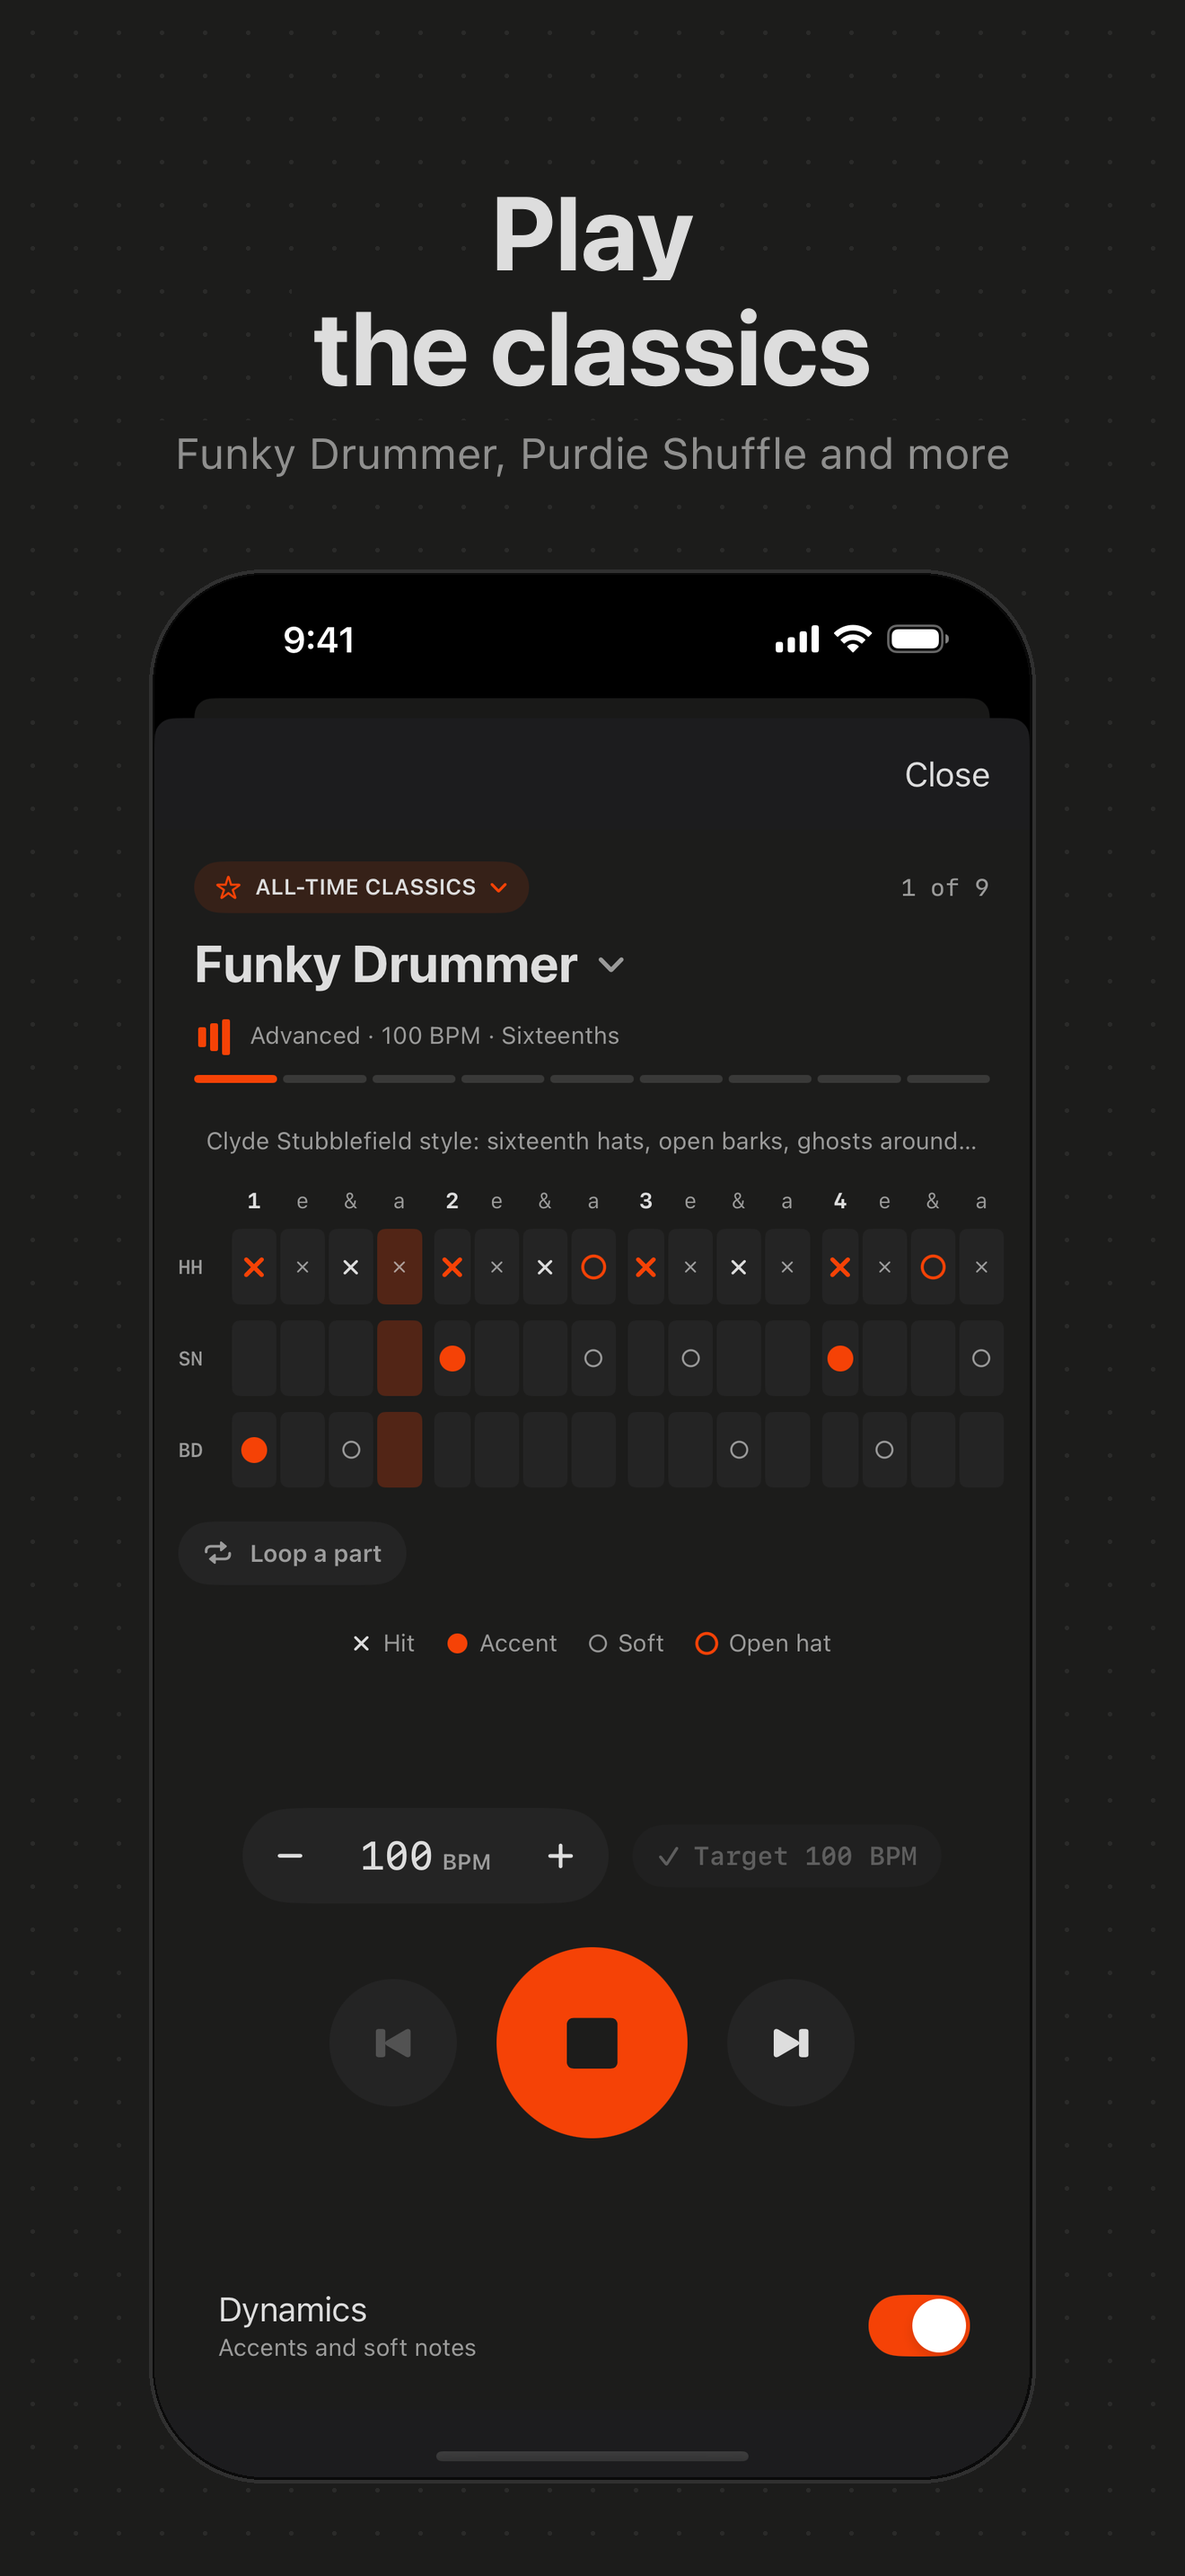
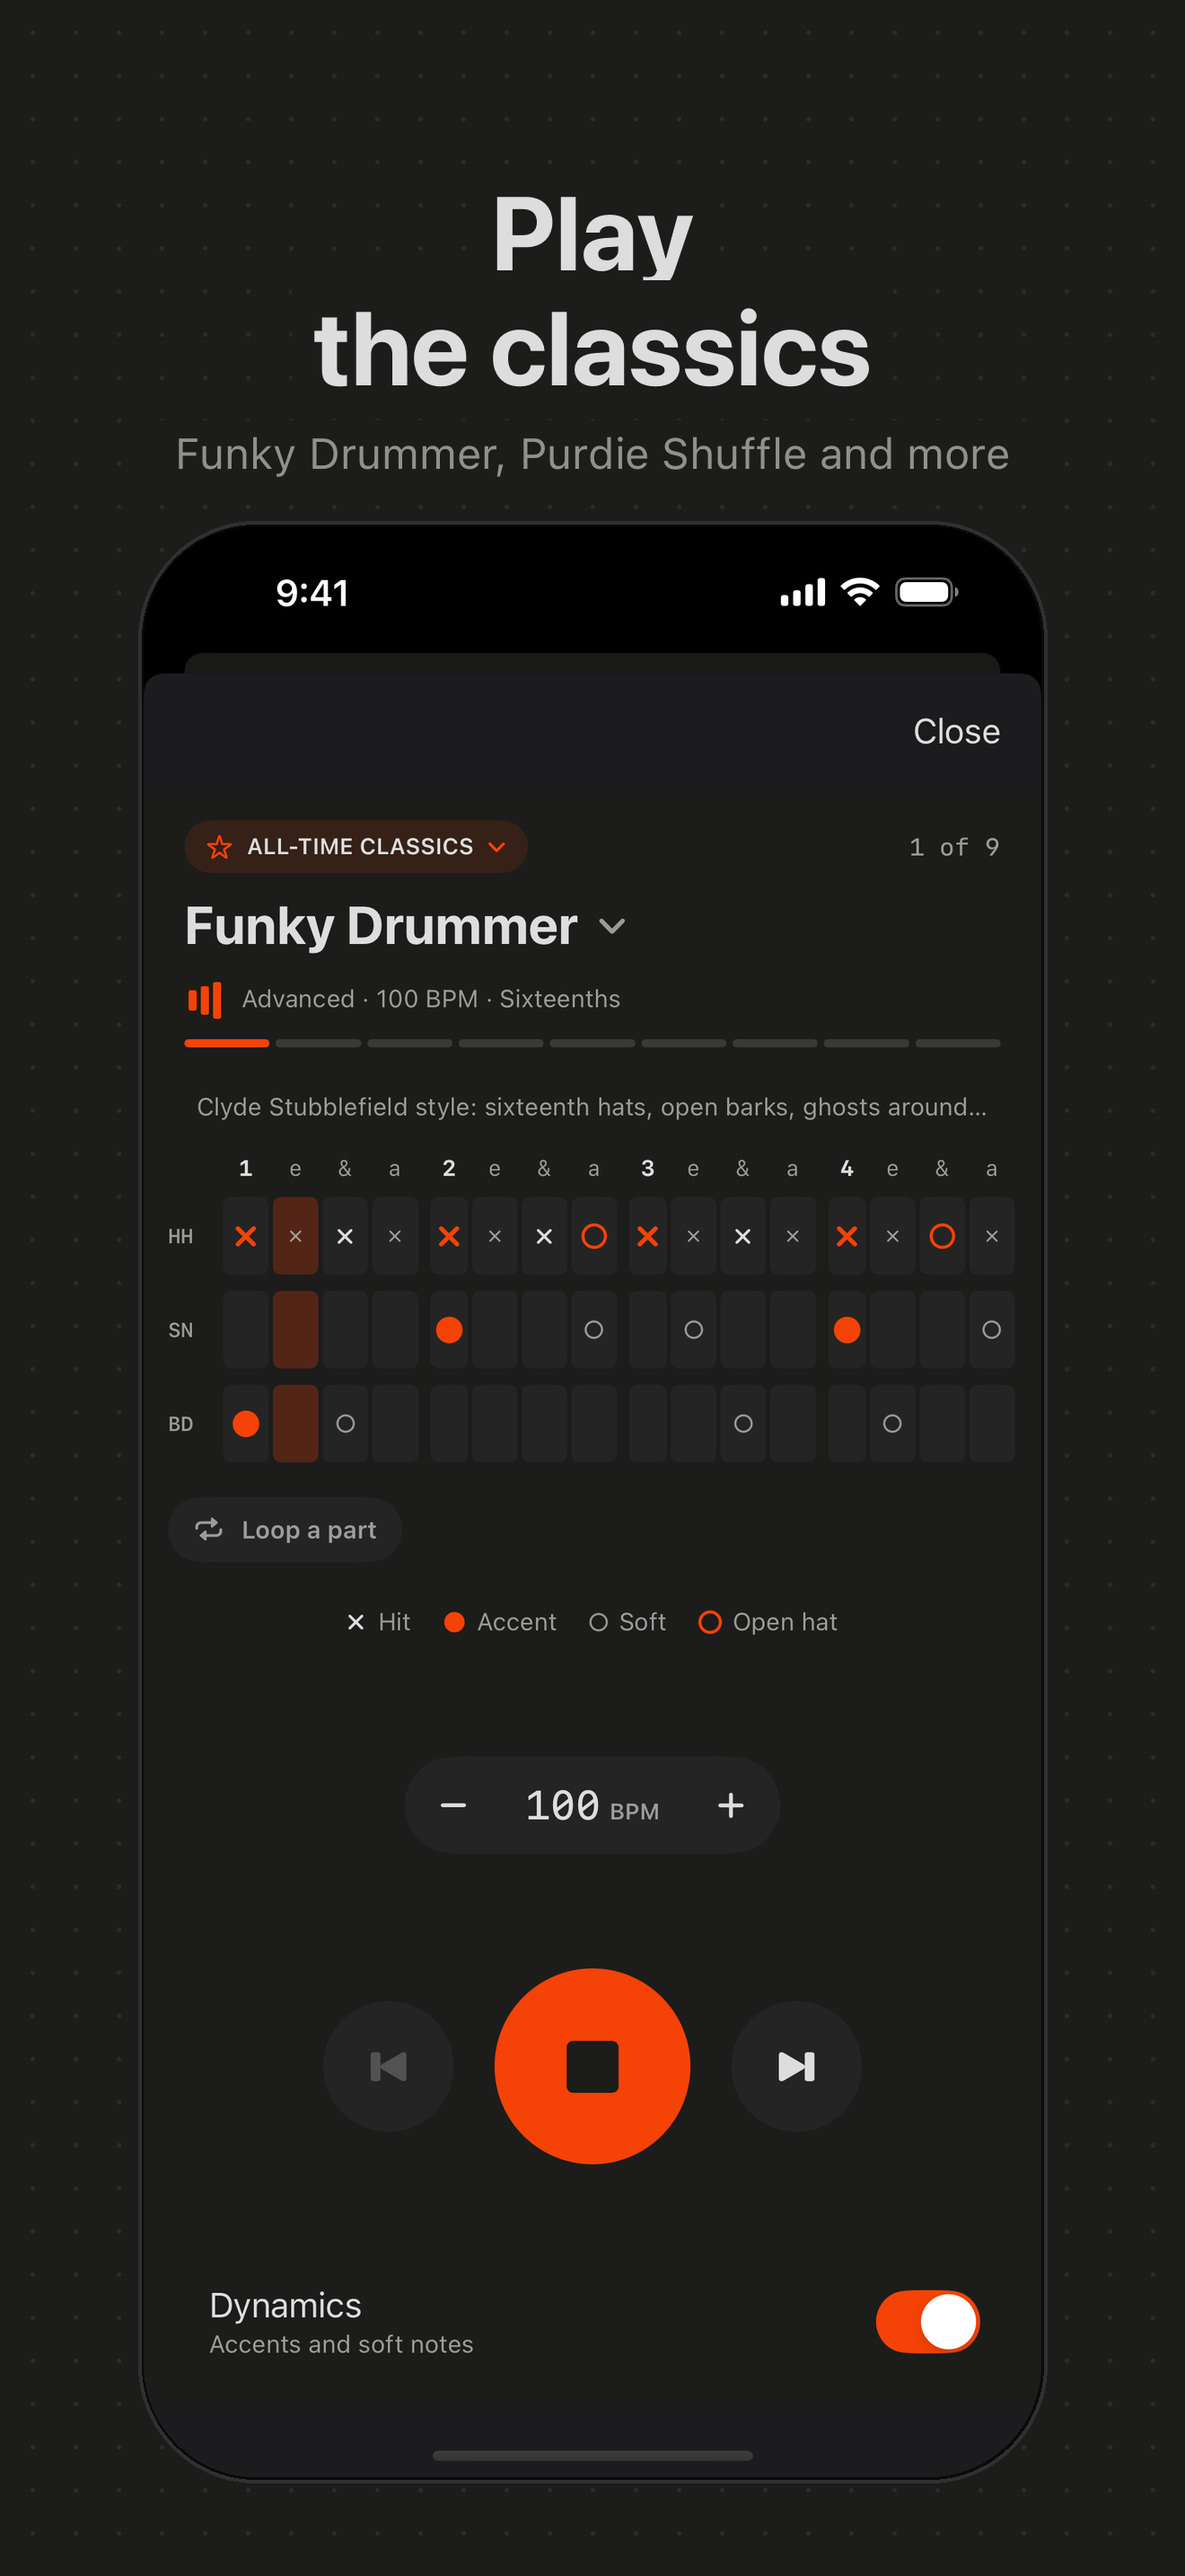
iPad: sheets open as full pages, build 8; new store images (EN, DE, iPad), German listing, cowbell default in brand handbook

diff --git a/Metronome/ContentView.swift b/Metronome/ContentView.swift
@@ -37,15 +37,19 @@ struct ContentView: View {
         }
         .sheet(isPresented: $showHistory) {
             HistoryView()
+                .pageSheet()
         }
         .sheet(isPresented: $showLearn) {
             LearnView()
+                .pageSheet()
         }
         .sheet(isPresented: $showSettings) {
             SettingsView(metronome: metronome)
+                .pageSheet()
         }
         .sheet(isPresented: $showBeatPresets) {
             BeatPresetsView(metronome: metronome)
+                .pageSheet()
         }
         .sheet(isPresented: $showQuickNoteValuePicker) {
             NoteValuePicker(metronome: metronome, isPresented: $showQuickNoteValuePicker)
@@ -901,5 +905,17 @@ struct SoundRow: View {
             }
         }
         .contentShape(Rectangle())
+    }
+}
+
+extension View {
+    // On iPad a sheet would open as a small card that cuts off the player, show it as a full page instead
+    @ViewBuilder
+    func pageSheet() -> some View {
+        if #available(iOS 18.0, *) {
+            presentationSizing(.page)
+        } else {
+            self
+        }
     }
 }

diff --git a/docs/store/listing-de.md b/docs/store/listing-de.md
@@ -1,0 +1,71 @@
+# Metro Mate 2.1.0 · App-Store-Eintrag (Deutsch)
+
+## Untertitel (max 30)
+
+Metronom und Drum-Grooves
+
+## Werbetext (max 170)
+
+Ein Klick, den du siehst: Die Welle fließt im Tempo und springt auf jedem Schlag. 70 Grooves und Übungen auf echtem Kit, schwere Stellen loopen. Gratis, ohne Werbung.
+
+## Beschreibung
+
+Metro Mate ist ein Metronom für Drummer. Ruhig zwischen den Schlägen, deutlich auf dem Schlag. Gratis, Open Source, ohne Werbung, ohne Abo, ohne Konto.
+
+DER KLICK
+- Eine Wellenfläche aus verbundenen Punkten fließt im Tempo und springt auf jedem Schlag, Akzente schlagen stärker aus
+- Tempo-Rad von 1 bis 300 BPM mit spürbarem Rasttick pro BPM und einem kräftigeren alle 10
+- Taktraster mit Akzenten und Notenwerten von Vierteln bis Sechzehntel-Triolen
+- Tap Tempo, Muster mischen, eigene Presets speichern
+- 7 Klicks: Classic (Woodblock), Clean, Claves, Pocket, Cowbell, Punch, Deep
+- Spielt weiter im Lautlos-Modus und im Hintergrund
+
+DEIN SOUND
+- Stell dir dein eigenes Drum-Kit zum Lernen zusammen: 8 Snares, 6 Kicks, 5 Hi-Hats, 4 offene Hi-Hats und 3 Übungspad-Sounds, jeder mit Vorhören
+- Importiere eigene One-Shots aus der Dateien-App, zum Beispiel einen Export aus deiner DAW. Sie bleiben auf deinem Gerät
+
+LERNEN
+- 70 Grooves und Übungen in 9 Kategorien, von Einsteiger bis Fortgeschritten
+- All-Time Classics im Stil von Funky Drummer, Purdie Shuffle, Amen Break und mehr
+- Funk und Ghost Notes, lineare Grooves, Hi-Hat-Technik, Kick-Unabhängigkeit, Shuffles und Triolen, Akzentstudien, Chops mit R- und L-Sticking
+- Jeder Groove als Raster, das du hörst, gespielt auf einem aufgenommenen Funk-Kit
+- Dynamik an oder aus: Akzente und Ghost Notes oder jeder Schlag gleich laut
+- Tipp ins Raster und hör Spalte für Spalte, loop genau die Stelle, an der du arbeitest
+- Merkt sich dein Tempo für jeden Groove, ein Tipp zurück zum Zieltempo
+
+VERLAUF
+- Wochenansicht mit Übungszeit pro Tag
+- Monatsansicht mit Kalender, längster Serie und Tempo-Fortschritt pro Groove
+- Nur auf deinem Gerät gespeichert
+
+Die ganze App gibt es jetzt auch auf Deutsch.
+
+Siri: "Starte Metro Mate mit 90 BPM".
+
+Die Drum- und Klick-Samples sind aufgenommene Instrumente unter CC0, der Clean-Ton entsteht in der App. Der Code liegt auf GitHub, das Versprechen ohne Tracking kannst du also selbst prüfen.
+
+## Neu in 2.1.0
+
+- Neuer Look: eine Welle, die im Tempo fließt und auf dem Schlag springt
+- Lernen: 70 Grooves und Übungen auf echtem Funk-Kit, mit Loops und Dynamik
+- Wähl dein eigenes Drum-Kit zum Lernen, 26 aufgenommene Sounds mit Vorhören
+- Eigene Sounds aus der Dateien-App importieren, sie bleiben auf deinem Gerät
+- Übungsverlauf nach Woche und Monat
+- Aufgenommene Klicks, Tempo von 1 bis 300 BPM mit Haptik
+- App komplett auf Deutsch
+- Neues App-Icon
+
+## Keywords (max 100)
+
+schlagzeug,metronom,drummer,groove,click,takt,tempo,bpm,üben,rudiments,funk,ghost notes,paradiddle
+
+## Screenshots (6.9", 1320 x 2868)
+
+1. `screenshots-de/01-feel-every-beat.png` · Spür jeden Schlag · Hauptscreen spielend, Schlag 1 auf der Welle
+2. `screenshots-de/02-play-the-classics.png` · Spiel die Klassiker · Funky Drummer spielt
+3. `screenshots-de/03-grooves-and-exercises.png` · 70 Grooves und Übungen · Kategorien über Funk & Ghost Notes
+4. `screenshots-de/04-loop-the-hard-part.png` · Loop die schwere Stelle · Paradiddle mit Loop und Spaltencursor
+5. `screenshots-de/05-watch-it-add-up.png` · Sieh, wie dein Üben wächst · Verlauf, Monatsansicht (fiktive Übungsdaten)
+6. `screenshots-de/06-pick-your-sound.png` · Wähl deinen Sound · Snare-Liste des Lern-Kits mit Deine Sounds und Import
+
+iPad: die englischen Bilder aus `screenshots-ipad/` verwenden.

diff --git a/docs/store/listing.md b/docs/store/listing.md
@@ -20,6 +20,10 @@ THE CLICK
 - 7 click sounds: Classic woodblock, Clean, Claves, Pocket, Cowbell, Punch, Deep
 - Keeps playing with the ringer on silent and in the background
 
+YOUR SOUND
+- Build your own drum kit for Learn: 8 snares, 6 kicks, 5 hi-hats, 4 open hi-hats and 3 practice pad sounds, each with a preview
+- Import your own one-shots from the Files app, for example an export from your DAW. They stay on your device
+
 LEARN
 - 70 grooves and exercises in 9 categories, Beginner to Advanced
 - All-Time Classics in the style of Funky Drummer, Purdie Shuffle, Amen Break and more
@@ -44,17 +48,27 @@ The drum and click samples are recorded instruments released under CC0, the Clea
 - Learn: 70 grooves and exercises on a real funk kit, with loops and dynamics
 - Practice history by week and month
 - Recorded click sounds, tempo from 1 to 300 BPM with haptics
+- Pick your own drum kit for Learn, 26 recorded sounds with preview
+- Import your own sounds from the Files app, they stay on your device
+- Now in German
 - New app icon
 
 ## Keywords (max 100)
 
 drum,drummer,metronome,groove,click,tempo,bpm,practice,rudiments,funk,ghost notes,paradiddle,drums
 
-## Screenshots (6.9", 1320 x 2868)
+## Screenshots (6.9", 1320 x 2868, German set in screenshots-de/)
 
 1. `screenshots/01-feel-every-beat.png` · Main screen playing, beat 1 on the wave
 2. `screenshots/02-play-the-classics.png` · Learn, Funky Drummer playing
 3. `screenshots/03-grooves-and-exercises.png` · Categories sheet over Funk & Ghost Notes
 4. `screenshots/04-loop-the-hard-part.png` · Paradiddle with loop on and column cursor
 5. `screenshots/05-watch-it-add-up.png` · History, month view (fictional practice data)
-6. `screenshots/06-pick-your-click.png` · Sound sheet with all 7 sounds
+6. `screenshots/06-pick-your-sound.png` · Snare list of the Learn drum kit, with Your sounds and Import
+
+## Screenshots (iPad 13", 2064 x 2752)
+
+1. `screenshots-ipad/01-feel-every-beat.png` · Main screen playing, beat 1 on the wave
+2. `screenshots-ipad/02-loop-the-hard-part.png` · Paradiddle with loop on
+3. `screenshots-ipad/03-grooves-and-exercises.png` · Categories sheet over Funk & Ghost Notes
+4. `screenshots-ipad/04-pick-your-sound.png` · Sound settings with click and Learn drum kit

diff --git a/docs/BRAND.md b/docs/BRAND.md
@@ -75,7 +75,7 @@ Don't
 ## Klang
 
 - Echte, klare Aufnahmen (CC0), Quellen stehen in `Metronome/Sounds/SOURCES.md`.
-- Classic (Woodblock) ist Standard. Weitere Klänge: Clean, Claves, Pocket, Cowbell, Punch, Deep.
+- Cowbell ist Standard (Alex' Wahl, 2026-10-24). Weitere Klänge: Classic (Woodblock), Clean, Claves, Pocket, Punch, Deep.
 - Akzent und Zwischenschlag klingen hörbar verschieden.
 
 Don't
